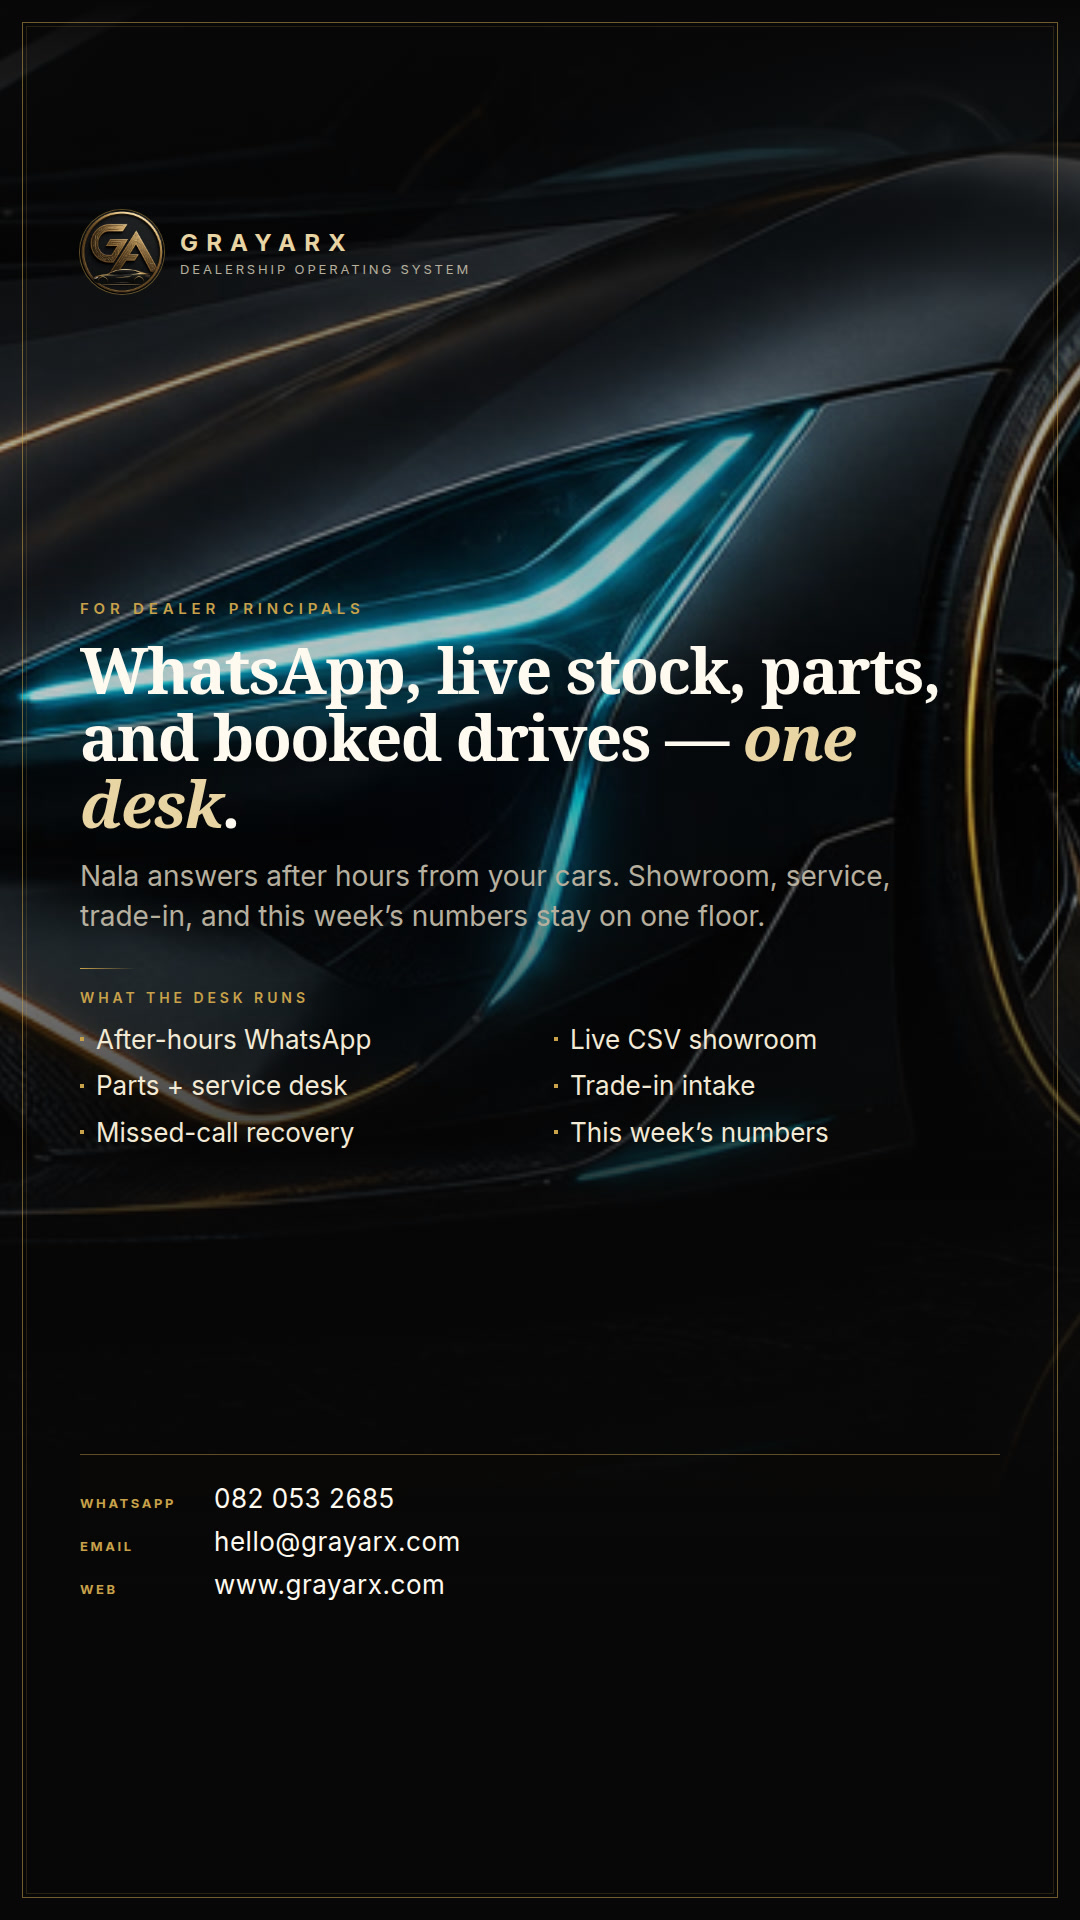
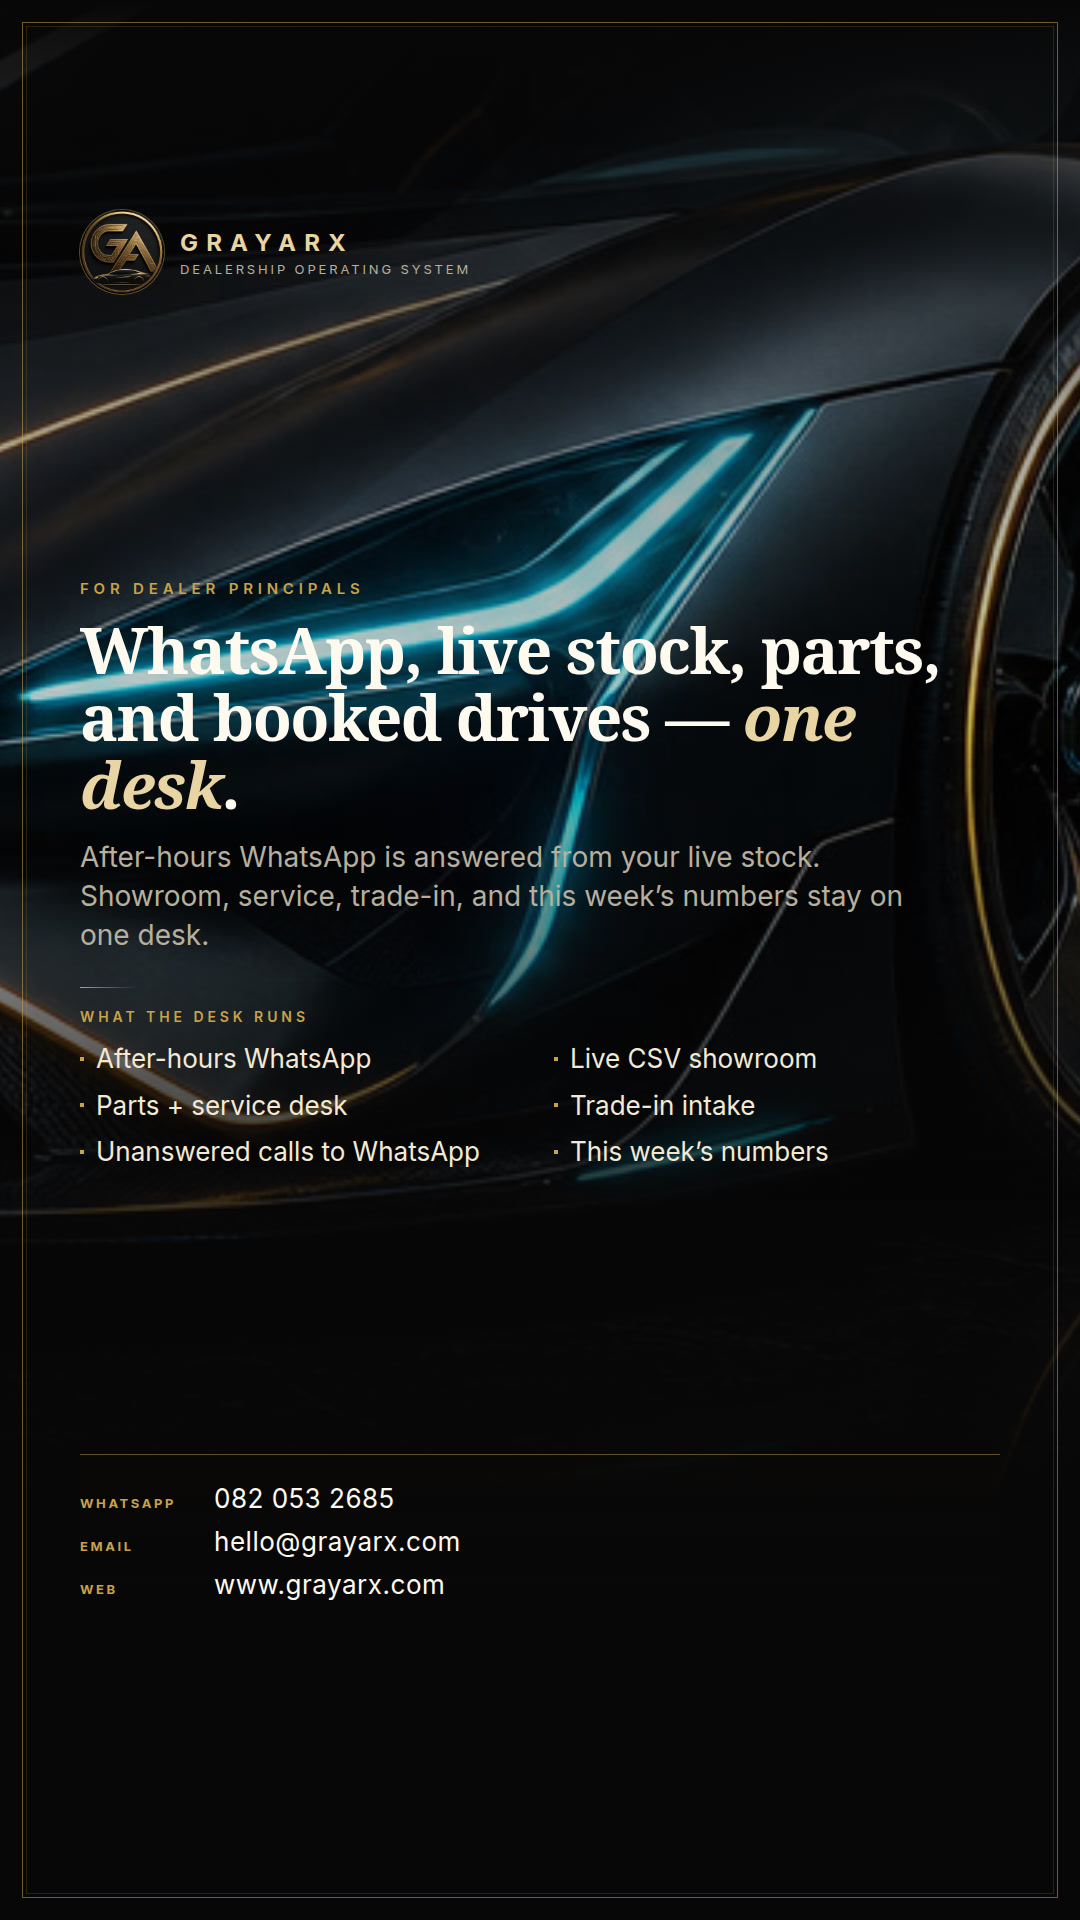
Drop Nala and 'missed-call recovery' from Facebook ad copy.
Speak in yard language a stranger can read: unanswered calls go to WhatsApp. No agent names on the creative.

Changed region(s): [[0.0611, 0.3125, 0.8861, 0.625], [0.5194, 0.5312, 0.7639, 0.625]]

diff --git a/docs/facebook-ads/templates/feed-1080.html b/docs/facebook-ads/templates/feed-1080.html
@@ -76,7 +76,7 @@
         </div>
         <div class="eyebrow">For dealer principals</div>
         <h1>WhatsApp, live stock, parts, and booked drives — <em>one desk</em>.</h1>
-        <p class="sub">Nala answers after hours from your cars. The floor keeps showroom, service, trade-in, and this week’s numbers in one place.</p>
+        <p class="sub">After-hours WhatsApp is answered from your live stock. Showroom, service, trade-in, and this week’s numbers stay on one desk.</p>
         <div class="rule"></div>
         <div class="services-label">What the desk runs</div>
         <ul class="services" style="margin-top: 14px">
@@ -84,7 +84,7 @@
           <li>Live CSV showroom</li>
           <li>Parts + service desk</li>
           <li>Trade-in intake</li>
-          <li>Missed-call recovery</li>
+          <li>Unanswered calls to WhatsApp</li>
           <li>This week’s numbers</li>
         </ul>
         <div class="contact">

diff --git a/docs/facebook-ads/templates/story-1080x1920.html b/docs/facebook-ads/templates/story-1080x1920.html
@@ -83,7 +83,7 @@
         </div>
         <div class="eyebrow">For dealer principals</div>
         <h1>WhatsApp, live stock, parts, and booked drives — <em>one desk</em>.</h1>
-        <p class="sub">Nala answers after hours from your cars. Showroom, service, trade-in, and this week’s numbers stay on one floor.</p>
+        <p class="sub">After-hours WhatsApp is answered from your live stock. Showroom, service, trade-in, and this week’s numbers stay on one desk.</p>
         <div class="rule"></div>
         <div class="services-label">What the desk runs</div>
         <ul class="services">
@@ -91,7 +91,7 @@
           <li>Live CSV showroom</li>
           <li>Parts + service desk</li>
           <li>Trade-in intake</li>
-          <li>Missed-call recovery</li>
+          <li>Unanswered calls to WhatsApp</li>
           <li>This week’s numbers</li>
         </ul>
         <div class="contact">

diff --git a/docs/facebook-ads/templates/landscape-1200x628.html b/docs/facebook-ads/templates/landscape-1200x628.html
@@ -95,13 +95,13 @@
         </div>
         <div class="eyebrow">For dealer principals</div>
         <h1>WhatsApp, live stock, parts, and booked drives — <em>one desk</em>.</h1>
-        <p class="sub">After-hours Nala, CSV showroom, service, trade-in, missed calls, this week’s numbers.</p>
+        <p class="sub">After-hours WhatsApp, live CSV showroom, service, trade-in, unanswered calls to WhatsApp, this week’s numbers.</p>
         <div class="rule"></div>
         <ul class="services">
           <li>After-hours WhatsApp</li>
           <li>Live CSV showroom</li>
-          <li>Parts + service desk</li>
-          <li>Trade-in + missed calls</li>
+          <li>Parts, service, trade-in</li>
+          <li>Unanswered calls to WhatsApp</li>
         </ul>
         </div>
         <div class="contact">

diff --git a/docs/facebook-ads/README.md b/docs/facebook-ads/README.md
@@ -25,7 +25,7 @@ Re-render with `node docs/facebook-ads/render.mjs`.
 **Primary text**
 
 ```
-GrayArx is the dealership operating system: Nala answers after-hours WhatsApp from your live stock, your CSV showroom stays true, and parts, service, trade-in, missed calls, and this week’s numbers sit on one desk.
+GrayArx is the dealership operating system: after-hours WhatsApp answered from your live stock, a CSV showroom that stays true, and parts, service, trade-in, unanswered calls sent to WhatsApp, and this week’s numbers on one desk.
 
 WhatsApp 082 053 2685
 hello@grayarx.com
@@ -49,7 +49,7 @@ Dealership OS on one desk
 ## On the image
 
 - What it is: dealership operating system
-- What it runs: after-hours WhatsApp, live CSV showroom, parts + service, trade-in, missed-call recovery, this week’s numbers
+- What it runs: after-hours WhatsApp, live CSV showroom, parts + service, trade-in, unanswered calls to WhatsApp, this week’s numbers
 - How to reach: WhatsApp 082 053 2685 · hello@grayarx.com · www.grayarx.com
 
 ## Do not
